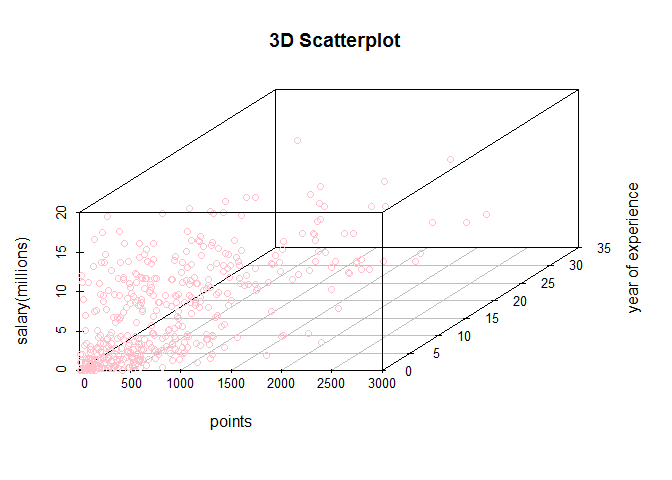
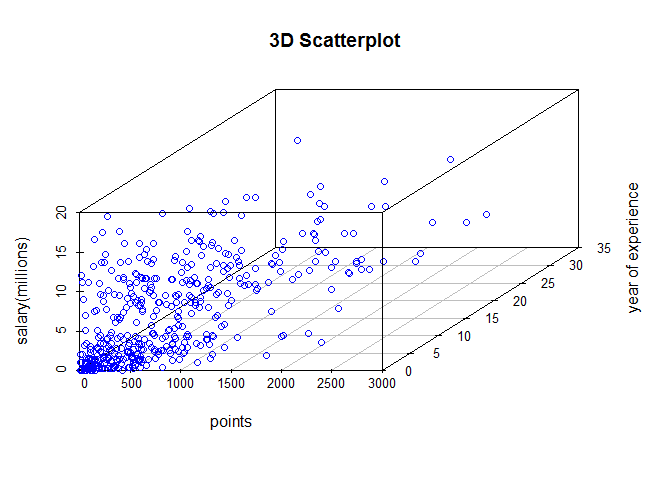
hw01:generate github document

diff --git a/hw01/hw01-xuening-hu.md b/hw01/hw01-xuening-hu.md
@@ -157,11 +157,11 @@ install.packages("scatterplot3d", repos = "http://cran.us.r-project.org")
     ## package 'scatterplot3d' successfully unpacked and MD5 sums checked
     ## 
     ## The downloaded binary packages are in
-    ##  C:\Users\Xuening\AppData\Local\Temp\RtmpCItJzG\downloaded_packages
+    ##  C:\Users\Xuening\AppData\Local\Temp\RtmpYNGU6I\downloaded_packages
 
 ``` r
 library(scatterplot3d)
-scatterplot3d(x = points, y = salary_m, z = experience_int, color = "pink", main = "3D Scatterplot", ylab = "year of experience", zlab = "salary(millions)")
+scatterplot3d(x = points, y = salary_m, z = experience_int, color = "blue", main = "3D Scatterplot", ylab = "year of experience", zlab = "salary(millions)")
 ```
 
 ![](hw01-xuening-hu_files/figure-markdown_github-ascii_identifiers/unnamed-chunk-10-1.png)
@@ -170,7 +170,10 @@ scatterplot3d(x = points, y = salary_m, z = experience_int, color = "pink", main
 boxplot(salary_m~position_factor)
 ```
 
-![](hw01-xuening-hu_files/figure-markdown_github-ascii_identifiers/unnamed-chunk-10-2.png) +Description and analysis for the plots here +
+![](hw01-xuening-hu_files/figure-markdown_github-ascii_identifiers/unnamed-chunk-10-2.png)
+
+-   Description and analysis for the plots here
+-   the more point in player scores, the more salary he gets.
 
 Question 8)
 -----------
@@ -179,6 +182,18 @@ Question 8)
     -   Utilizing the parameters and adjust the plots
 -   What things were easy
 
-+Experience with git: useful + Keep track of every commit + Cooperation +Help for the assignment? Yes. + Help with some usage of functions +How much time + More than 6 hours +Most time consuming part + Graph +Anything not understood
+-   Experience with git: useful
+    -   Keep track of every commit
+    -   Cooperation
+-   Help for the assignment? Yes.
+    -   Help with some usage of functions
+-   How much time
+    -   More than 6 hours
+-   Most time consuming part
+    -   Graph
+-   Anything not understood
 
-+Frustrating? + None +Exciting? + Struggling instead...
+-   Frustrating?
+    -   None
+-   Exciting?
+    -   Struggling instead...
